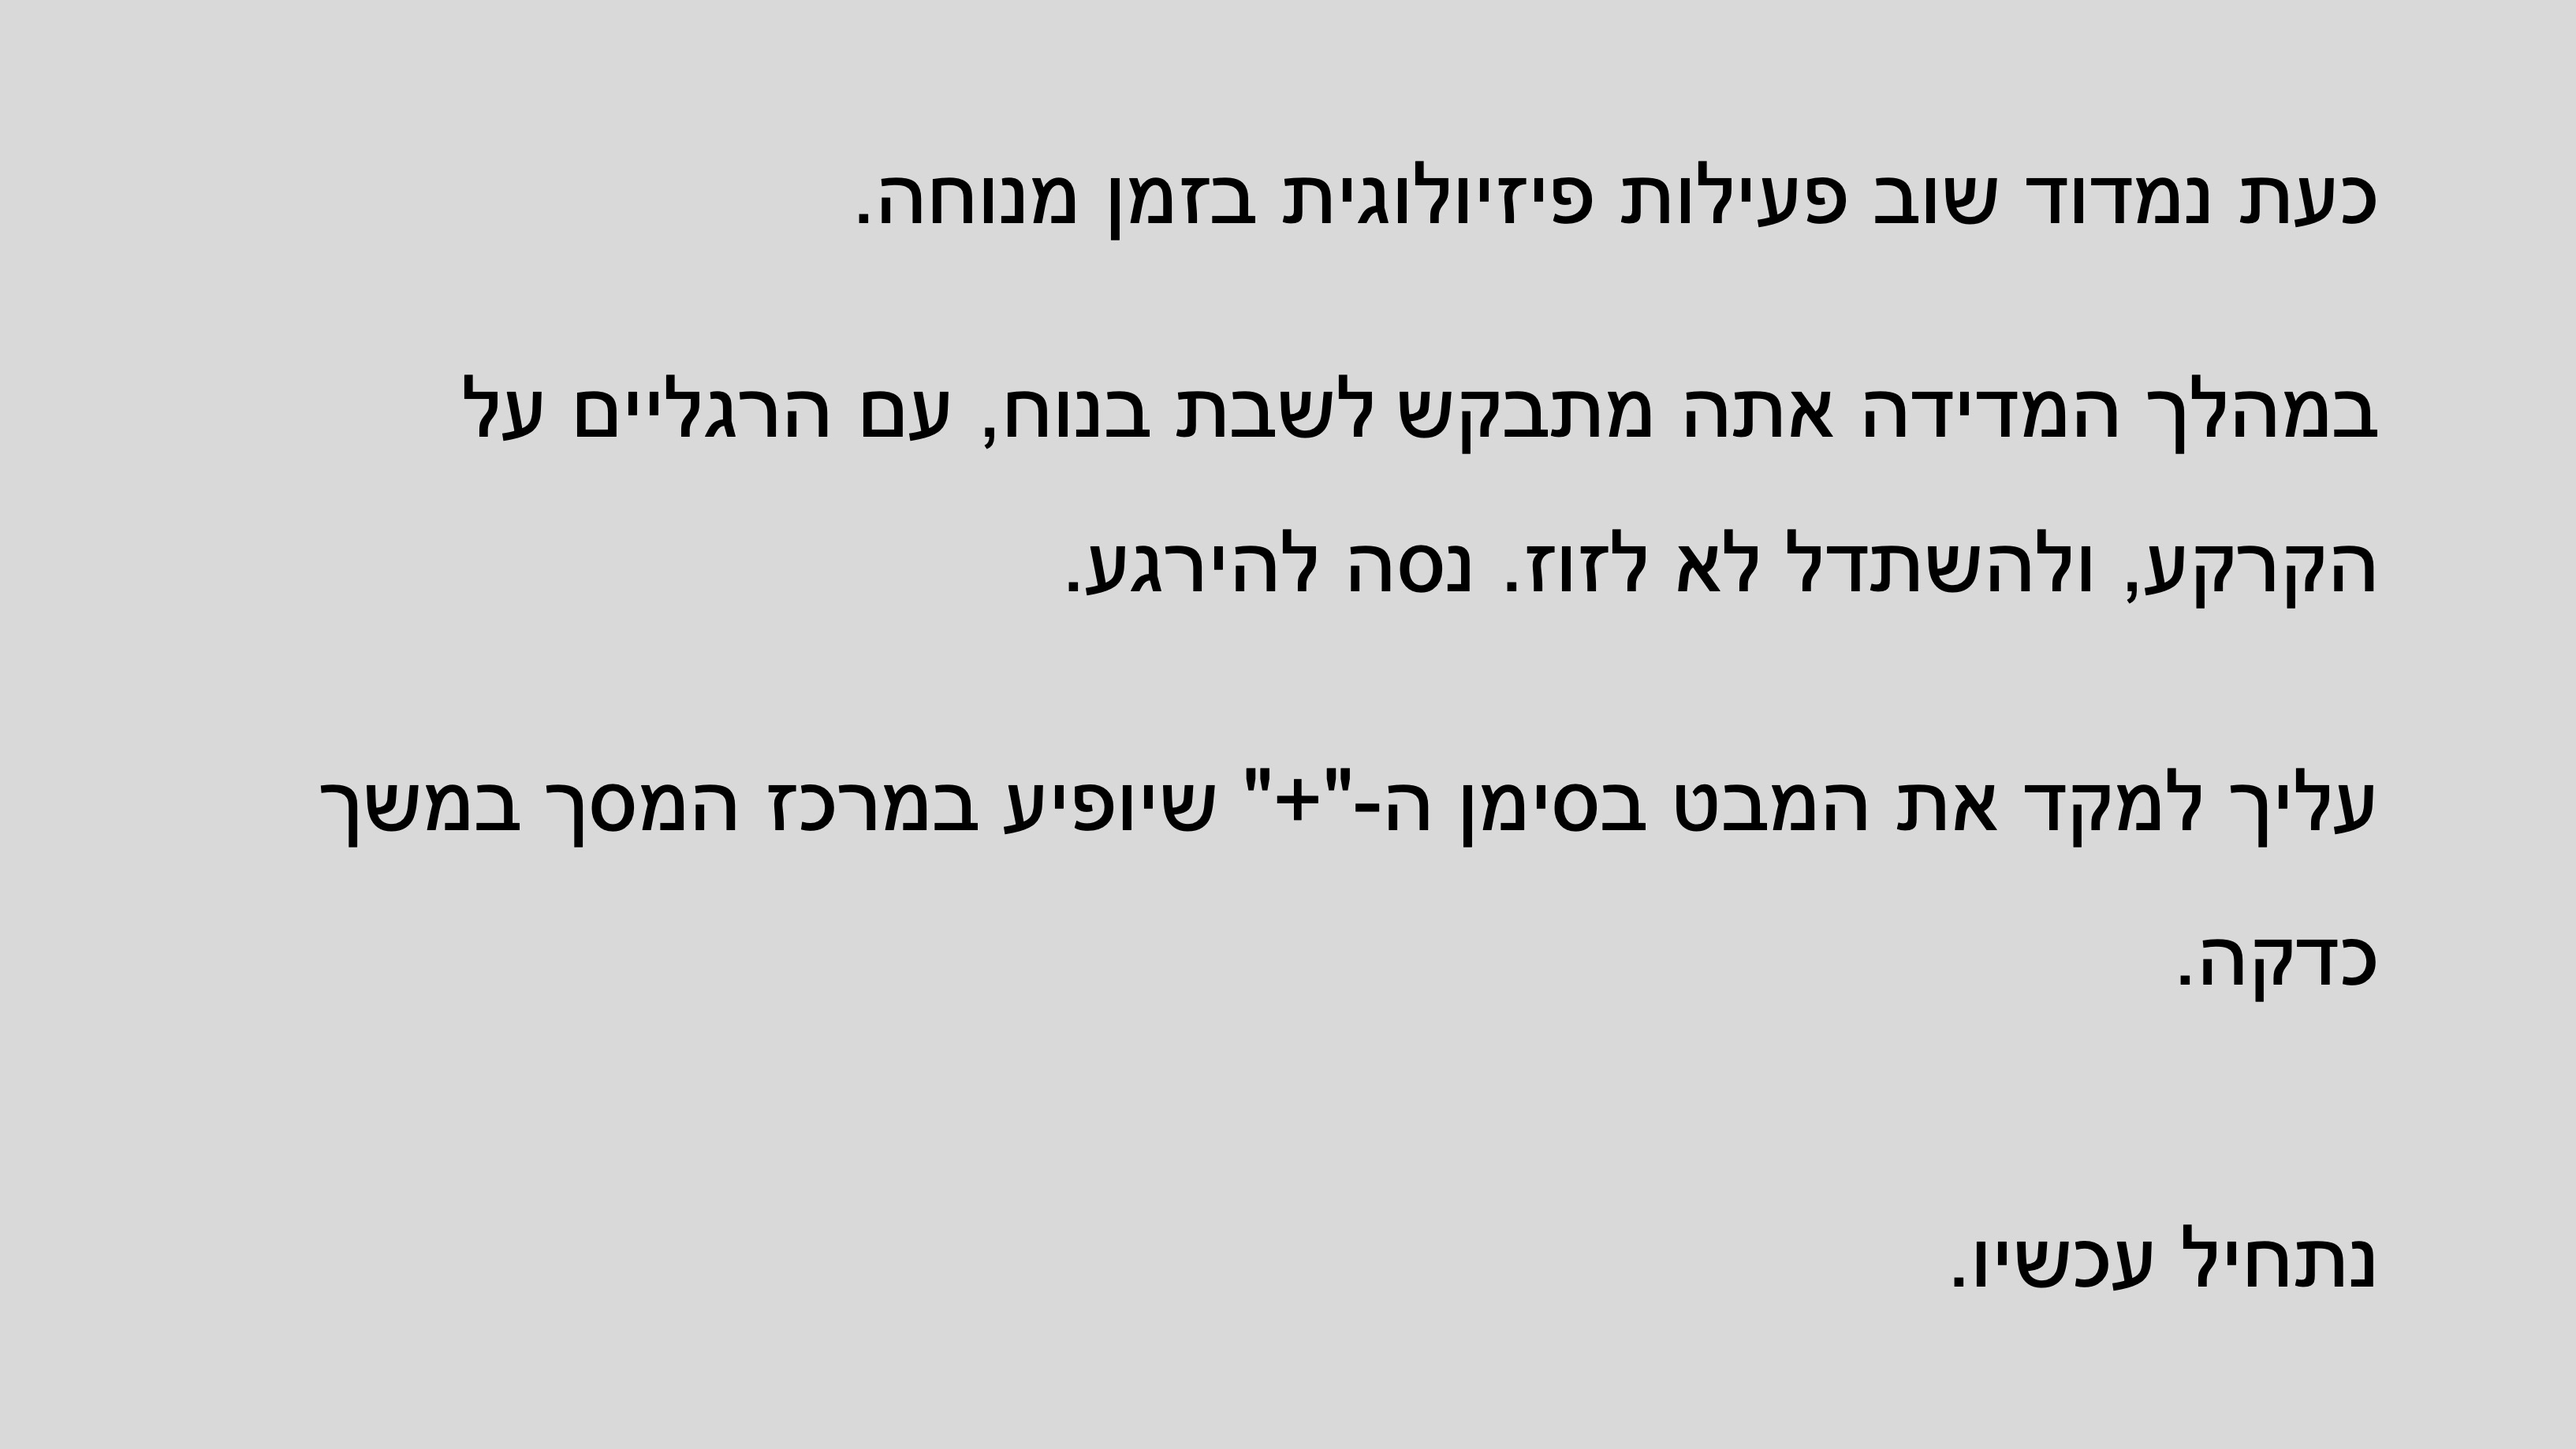
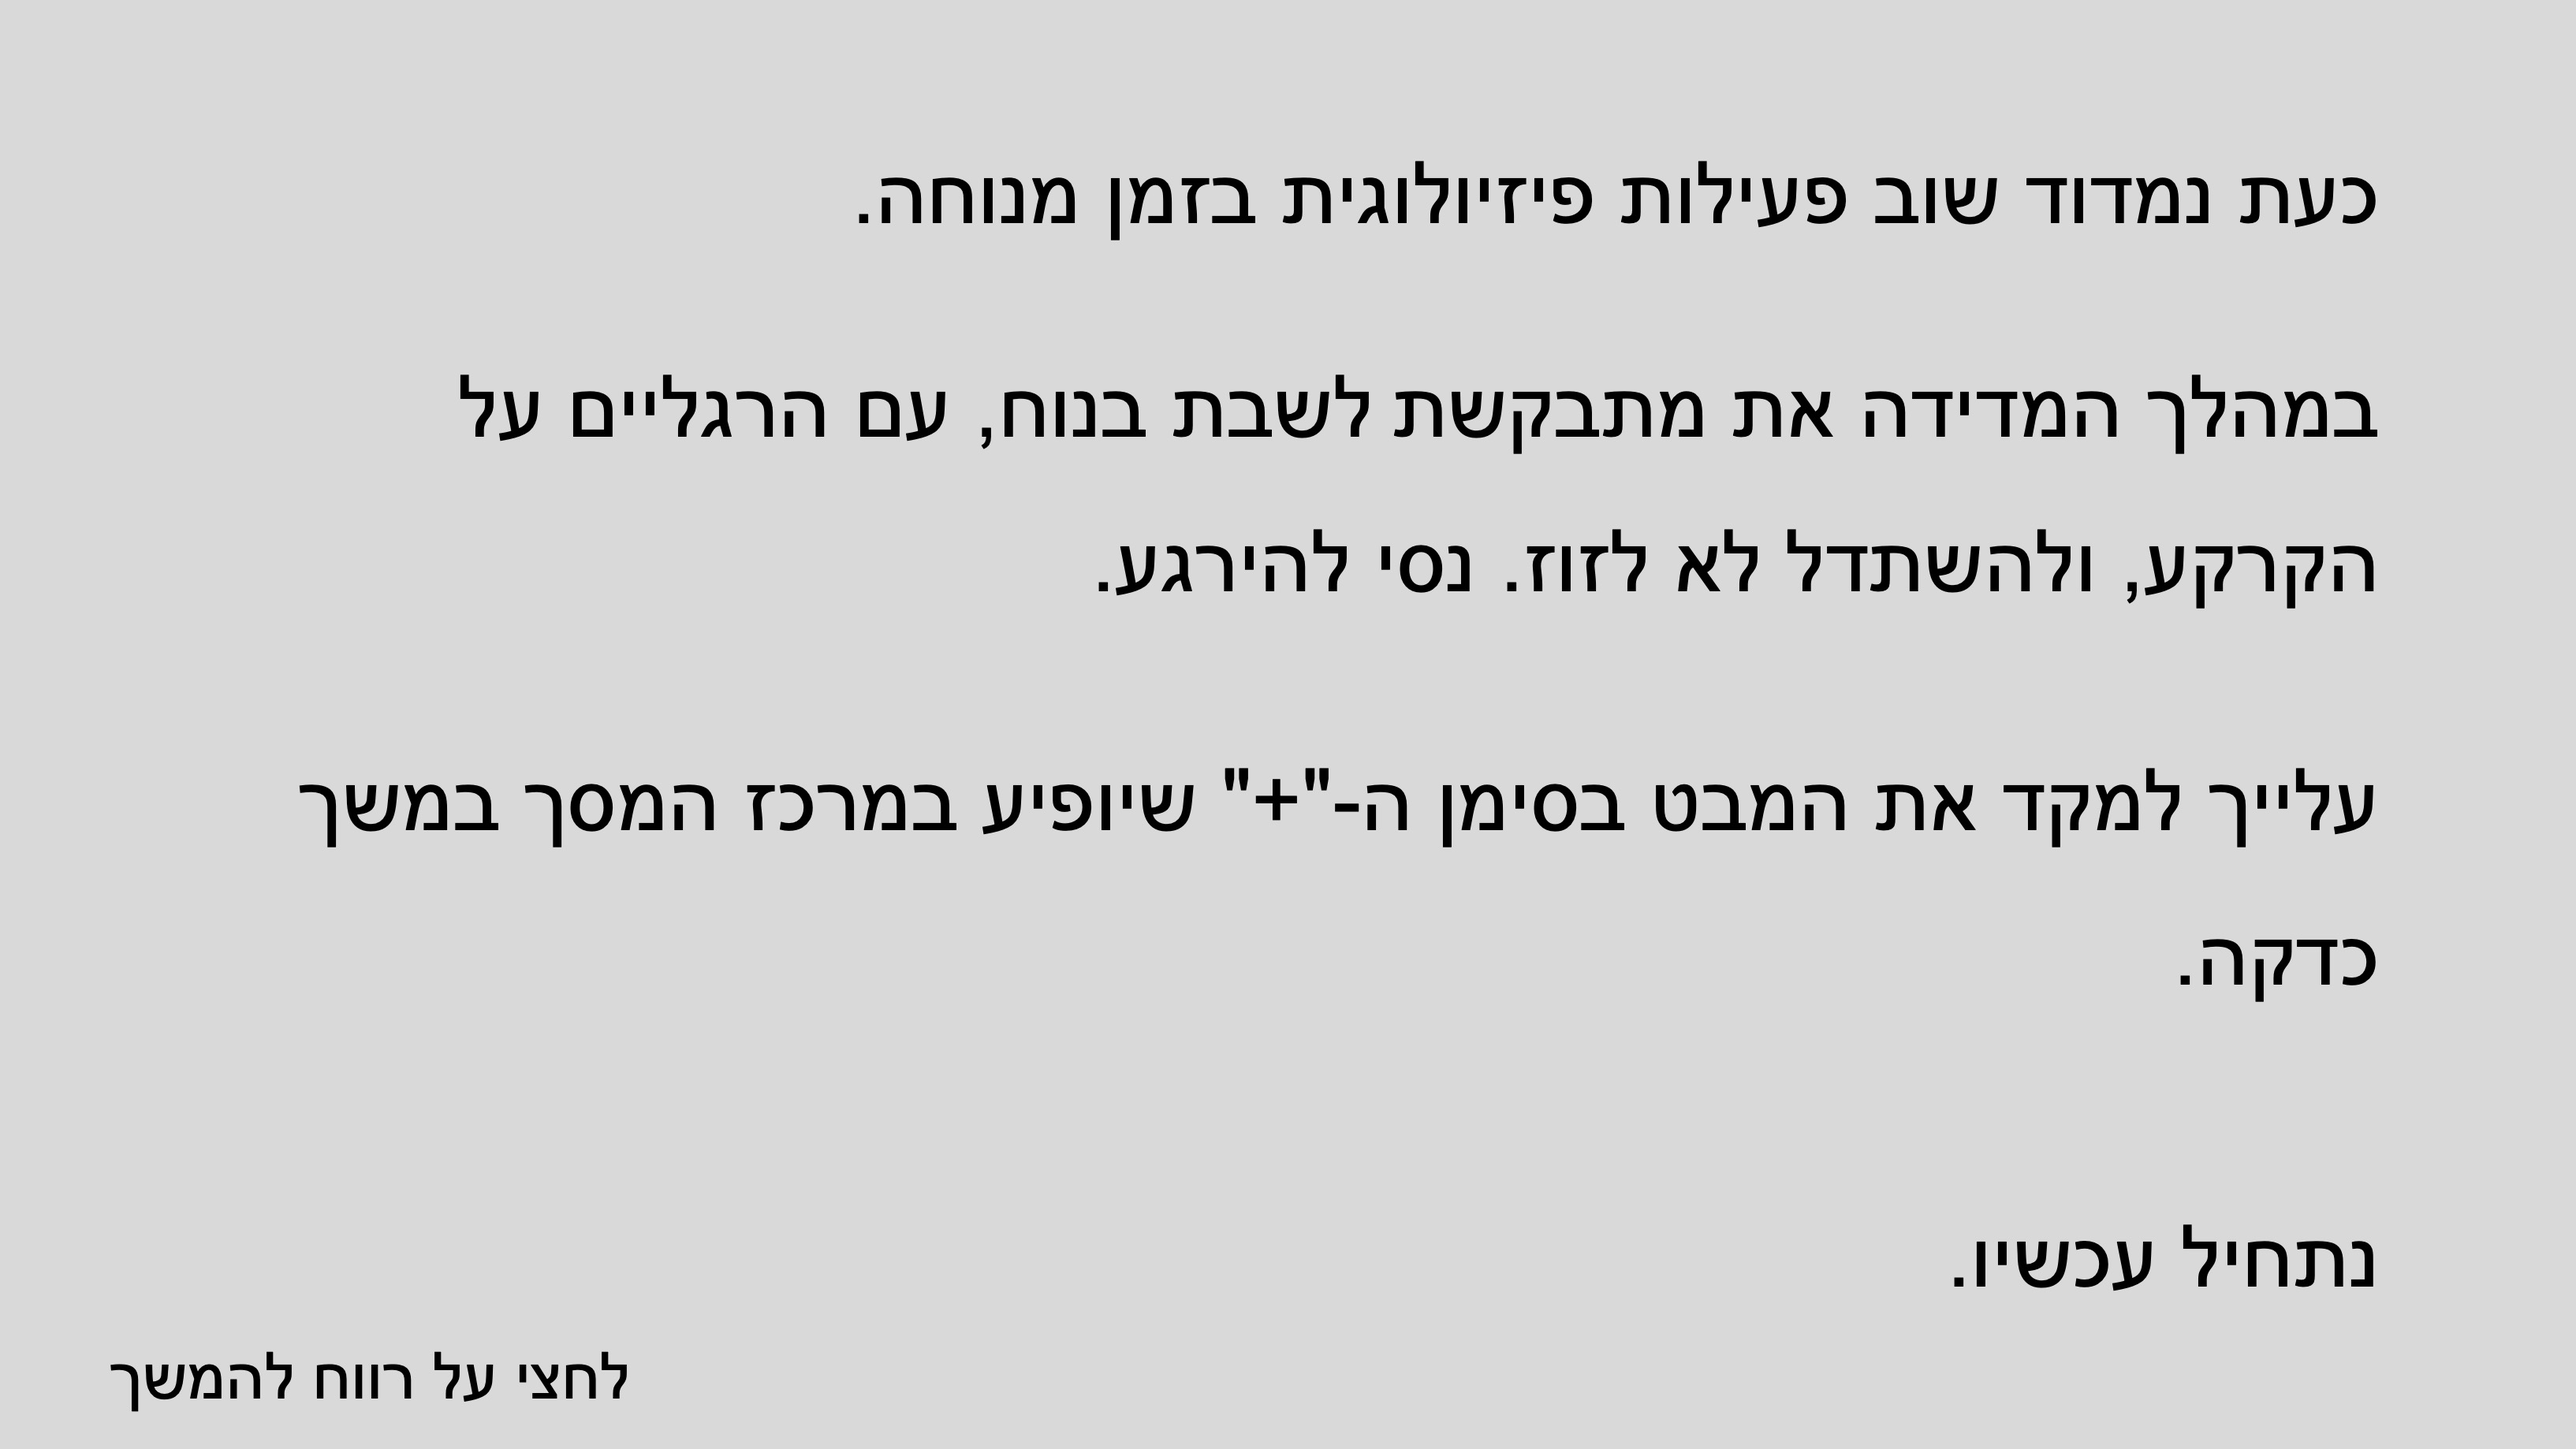
Changed lock screens to ones with space, added more time for the startle + wait for space, cleared events at the beginning of each wait, and minor changes in the config.json file because it saved things wrong

diff --git a/Assignments/NPU/helpers.py b/Assignments/NPU/helpers.py
@@ -19,6 +19,8 @@ HABITUATION_EVENT = 80
 
 def wait_for_space_no_df(window: visual.Window, io):
     keyboard = io.devices.keyboard
+    keyboard.getKeys()
+    core.wait(0.05)
     while True:
         for event in keyboard.getKeys(etype=Keyboard.KEY_PRESS):
             if event.key == " ":
@@ -30,6 +32,8 @@ def wait_for_space_no_df(window: visual.Window, io):
 
 def wait_for_space(window: visual.Window, io, params: dict, df: pd.DataFrame, dict_for_df: dict):
     keyboard = io.devices.keyboard
+    keyboard.getKeys()
+    core.wait(0.05)
     while True:
         dict_for_df["CurrentTime"] = round(time.time() - params["startTime"], 2)
         df = pd.concat([df, pd.DataFrame.from_records([dict_for_df])])
@@ -40,6 +44,7 @@ def wait_for_space(window: visual.Window, io, params: dict, df: pd.DataFrame, di
                 dataHandler.export_raw_data(params, df)
                 window.close()
                 core.quit()
+        core.wait(0.05)
 
 
 def wait_until_time_with_df(window: visual.Window, io, params: dict, df: pd.DataFrame, dict_for_df: dict, end_time):
@@ -58,6 +63,8 @@ def wait_until_time_with_df(window: visual.Window, io, params: dict, df: pd.Data
 
 def wait_for_space_with_replay(window: visual.Window, io, params: dict, df: pd.DataFrame, dict_for_df: dict):
     keyboard = io.devices.keyboard
+    keyboard.getKeys()
+    core.wait(0.05)
     while True:
         dict_for_df["CurrentTime"] = round(time.time() - params["startTime"], 2)
         df = pd.concat([df, pd.DataFrame.from_records([dict_for_df])])
@@ -120,14 +127,19 @@ def wait_for_calibration(window: visual.Window, params, io, df: pd.DataFrame, mi
     return df, mini_df
 
 
-def play_startle_and_wait(window: visual.Window, io, params: dict, df: pd.DataFrame,
+def play_startle_and_wait(window: visual.Window, image:visual.ImageStim, io, params: dict, df: pd.DataFrame,
                           dict_for_df: dict):
     soundToPlay = sound.Sound("./sounds/startle_probe.wav")
-    core.wait(2)
+    core.wait(5)
     now = ptb.GetSecs()
     soundToPlay.play(when=now)
     core.wait(1)
+    image.image = f"./img/instructions/startle{params['gender'][0]}{params['language'][0]}_2.jpeg"
+    image.setSize((2, 2))
+    image.draw()
+    window.update()
     keyboard = io.devices.keyboard
+    keyboard.getKeys()
     while True:
         dict_for_df["CurrentTime"] = round(time.time() - params["startTime"], 2)
         df = pd.concat([df, pd.DataFrame.from_records([dict_for_df])])
@@ -147,19 +159,18 @@ def play_shock_and_wait(window: visual.Window, io, params: dict, df: pd.DataFram
     core.wait(3)
     now = ptb.GetSecs()
     soundToPlay.play(when=now)
-    core.wait(1)
+    time_to_finish = time.time() + 3
     keyboard = io.devices.keyboard
-    while True:
+    while time.time() < time_to_finish:
         dict_for_df["CurrentTime"] = round(time.time() - params["startTime"], 2)
         df = pd.concat([df, pd.DataFrame.from_records([dict_for_df])])
         for event in keyboard.getKeys(etype=Keyboard.KEY_PRESS):
-            if event.key == " ":
-                soundToPlay.stop()
-                return df
             if event.key == "escape":
+                soundToPlay.stop()
                 dataHandler.export_raw_data(params, df)
                 window.close()
                 core.quit()
+        core.wait(0.05)
 
 
 def randomize_cue_times():

diff --git a/Assignments/NPU/instructionsScreen.py b/Assignments/NPU/instructionsScreen.py
@@ -25,7 +25,7 @@ def show_instructions(params: dict, window: visual.Window, img: visual.ImageStim
     replay = True
     plays_again = False
     while replay:
-        for i in range(1, SLIDES):
+        for i in range(2, SLIDES):
             if params["skipCalibration"] and i in [3, 4, 5]:
                 pass
             elif params["skipStartle"] and i == STARTLE_SLIDE:
@@ -47,7 +47,7 @@ def show_instructions(params: dict, window: visual.Window, img: visual.ImageStim
                 elif i == RATING_SLIDE:
                     df = helpers.wait_for_space_with_rating_scale(window, img, io, params, df, dict_for_df)
                 elif i == STARTLE_SLIDE:
-                    df = helpers.play_startle_and_wait(window, io, params, df, dict_for_df)
+                    df = helpers.play_startle_and_wait(window, img, io, params, df, dict_for_df)
                 else:
                     df = helpers.wait_for_space(window, io, params, df, dict_for_df)
 
@@ -69,7 +69,7 @@ def finalization(params: dict, window: visual.Window, img: visual.ImageStim, io,
 
     mini_df = pd.concat([mini_df, pd.DataFrame.from_records([dict_for_df])])
 
-    img.image = f"./img/finish{params['language'][0]}{SUFFIX}"
+    img.image = f"./img/finish{params['gender'][0]}{params['language'][0]}{SUFFIX}"
     img.setSize((2, 2))
     img.draw()
     window.update()
@@ -104,7 +104,7 @@ def midpoint(params: dict, window: visual.Window, img: visual.ImageStim, io, df:
 
 def start_screen(window: visual.Window, image: visual.ImageStim, params: dict, df: pandas.DataFrame, io):
     dict_for_df = dataHandler.create_dict_for_df(params, Step="Instructions", InstructionScreenNum="Start",)
-    image.image = f"./img/start{params['language'][0]}{SUFFIX}"
+    image.image = f"./img/start{params['gender'][0]}{params['language'][0]}{SUFFIX}"
     image.setSize((2, 2))
     image.draw()
     window.update()

diff --git a/Assignments/NPU/main.py b/Assignments/NPU/main.py
@@ -21,7 +21,7 @@ params = {
     "Subject": configDialogBank[0],
     "session": configDialogBank[1],
     "blocks": configDialogBank[2],
-    "gender": "F" if configDialogBank[3] == "Female" else "M",
+    "gender": configDialogBank[3],
     "language": configDialogBank[4],
     "firstBlock": configDialogBank[5],
     "secondBlock": configDialogBank[6],
@@ -50,8 +50,8 @@ if params['recordPhysio']:
 
 window = visual.Window(size=params['screenSize'], monitor="testMonitor", color=(0.6, 0.6, 0.6), winType='pyglet',
                        fullscr=True if params['fullScreen'] else False, units="pix")
-image = visual.ImageStim(win=window, image="./img/init.jpeg", units="norm", opacity=1,
-                         size=(2, 2) if not params['fullScreen'] else None)
+image = visual.ImageStim(win=window, image=f"./img/instructions/1{params['gender'][0]}{params['language'][0]}.jpeg", units="norm", opacity=1,
+                         size=(2, 2))
 image.draw()
 window.mouseVisible = False
 window.update()

diff --git a/Assignments/NPU/configDialog.py b/Assignments/NPU/configDialog.py
@@ -29,7 +29,7 @@ def get_user_input(debug=False):
     userInput = gui.Dlg(title="NPU Task Configuration")
     userInput.addField('Subject Number:', )
     userInput.addField('Session:', 1)
-    userInput.addField('# of Blocks:', 2 if not configExists else loadedData['blocks'] - 1, choices=[1, 2, 3])
+    userInput.addField('# of Blocks:', 2 if not configExists else loadedData['blocks'] - 1, choices=[1, 2])
     userInput.addField('Gender', "Female" if not configExists else loadedData["gender"], choices=["Male", "Female"])
     userInput.addField("Preferred Language", "Hebrew" if not configExists else loadedData["language"],
                        choices=["Hebrew", "English"])
